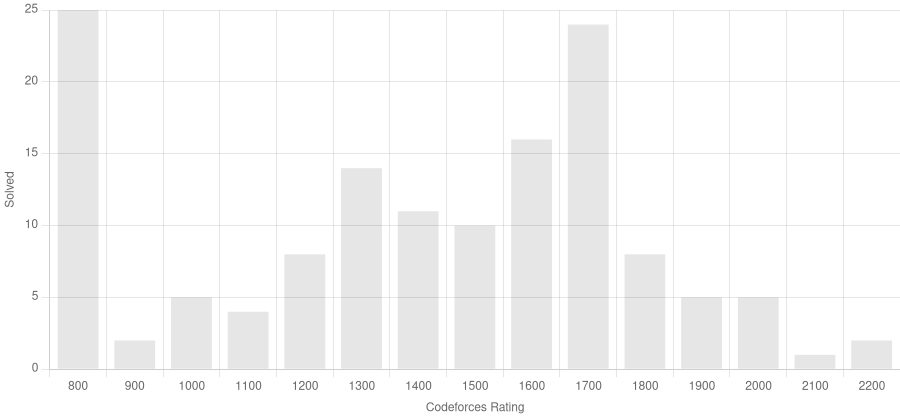
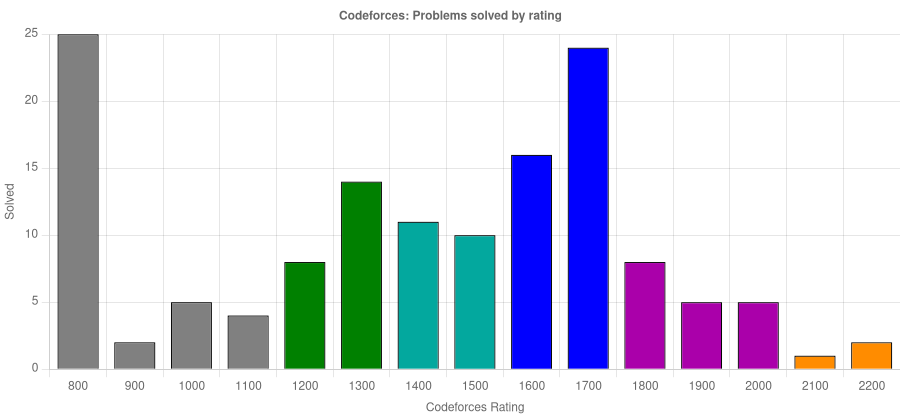
fixed coloring of chart

Changed region(s): [[0.0311, 0.0, 0.9956, 0.8976], [0.3733, 0.0, 0.6222, 0.0619], [0.0, 0.4024, 0.0311, 0.5262]]

diff --git a/scripts/fetch_stats.js b/scripts/fetch_stats.js
@@ -75,25 +75,55 @@ async function renderCFChart(stats) {
     .map(String);
   const data = labels.map((l) => stats[l] || 0);
 
-  const config = {
-    type: "bar",
-    data: {
-      labels,
-      datasets: [
-        {
-          label: "Problems Solved",
-          data,
-        },
-      ],
-    },
-    options: {
-      plugins: { legend: { display: false } },
-      scales: {
-        x: { title: { display: true, text: "Codeforces Rating" } },
-        y: { title: { display: true, text: "Solved" }, beginAtZero: true },
+ const cfColors = [
+  "#808080", // Gray for 800-999
+  "#808080",
+  "#808080",
+  "#008000", // Green for 1200-1399
+  "#008000",
+  "#03A89E", // Cyan for 1400-1599
+  "#03A89E",
+  "#0000FF", // Blue for 1600-1799
+  "#0000FF",
+  "#AA00AA", // Purple for 1900-2099
+  "#AA00AA",
+  "#FF8C00", // Orange for 2200+
+];
+
+const config = {
+  type: "bar",
+  data: {
+    labels,
+    datasets: [
+      {
+        label: "Problems Solved",
+        data,
+        backgroundColor: labels.map((rating) => {
+          const r = parseInt(rating, 10);
+          if (r < 1200) return "#808080";   // Gray
+          if (r < 1400) return "#008000";   // Green
+          if (r < 1600) return "#03A89E";   // Cyan
+          if (r < 1800) return "#0000FF";   // Blue
+          if (r < 2100) return "#AA00AA";   // Purple
+          return "#FF8C00";                 // Orange
+        }),
+        borderColor: "#000000",
+        borderWidth: 1
       },
+    ],
+  },
+  options: {
+    plugins: { 
+      legend: { display: false },
+      title: { display: true, text: "Codeforces: Problems solved by rating" }
     },
-  };
+    scales: {
+      x: { title: { display: true, text: "Codeforces Rating" } },
+      y: { title: { display: true, text: "Solved" }, beginAtZero: true },
+    },
+  },
+};
+
 
   const buf = await chartJSNodeCanvas.renderToBuffer(config);
   fs.writeFileSync(path.join(assetsDir, "cf_rating_chart.png"), buf);

diff --git a/README.md b/README.md
@@ -1,0 +1,30 @@
+# README
+
+## Introduction
+A passionate software dev with a keen interest in problem solving and advanced algorithms. Loves learning new things.
+
+## Contest Section
+
+### Competitive Programming Profiles
+| Platform   | Badge / Link |
+|------------|--------------|
+| Codeforces | [![](https://img.shields.io/badge/Codeforces-x2.0-blue)](https://codeforces.com/profile/x2.0) |
+| CodeChef   | [![](https://img.shields.io/badge/CodeChef-awatanshsingh1-orange)](https://www.codechef.com/users/awatanshsingh1) |
+| LeetCode   | [![](https://img.shields.io/badge/LeetCode-X2-0-yellow)](https://leetcode.com/X2-0) |
+| AtCoder    | [![](https://img.shields.io/badge/AtCoder-awatansh-red)](https://atcoder.jp/users/awatansh) |
+
+#### Codeforces: Problems solved by rating
+<div align="center">
+  <img src="assets/cf_rating_chart.png" alt="Codeforces problems solved by rating" />
+</div>
+
+### Quick Stats
+- **LeetCode total solved:** 93
+- **AtCoder latest rating:** 596
+
+---
+
+## Dev: GitHub
+![GitHub Stats](https://github-readme-stats.vercel.app/api?username=awatansh&show_icons=true&theme=dark)
+
+![Top Languages](https://github-readme-stats.vercel.app/api/top-langs/?username=awatansh&layout=compact&theme=dark)
